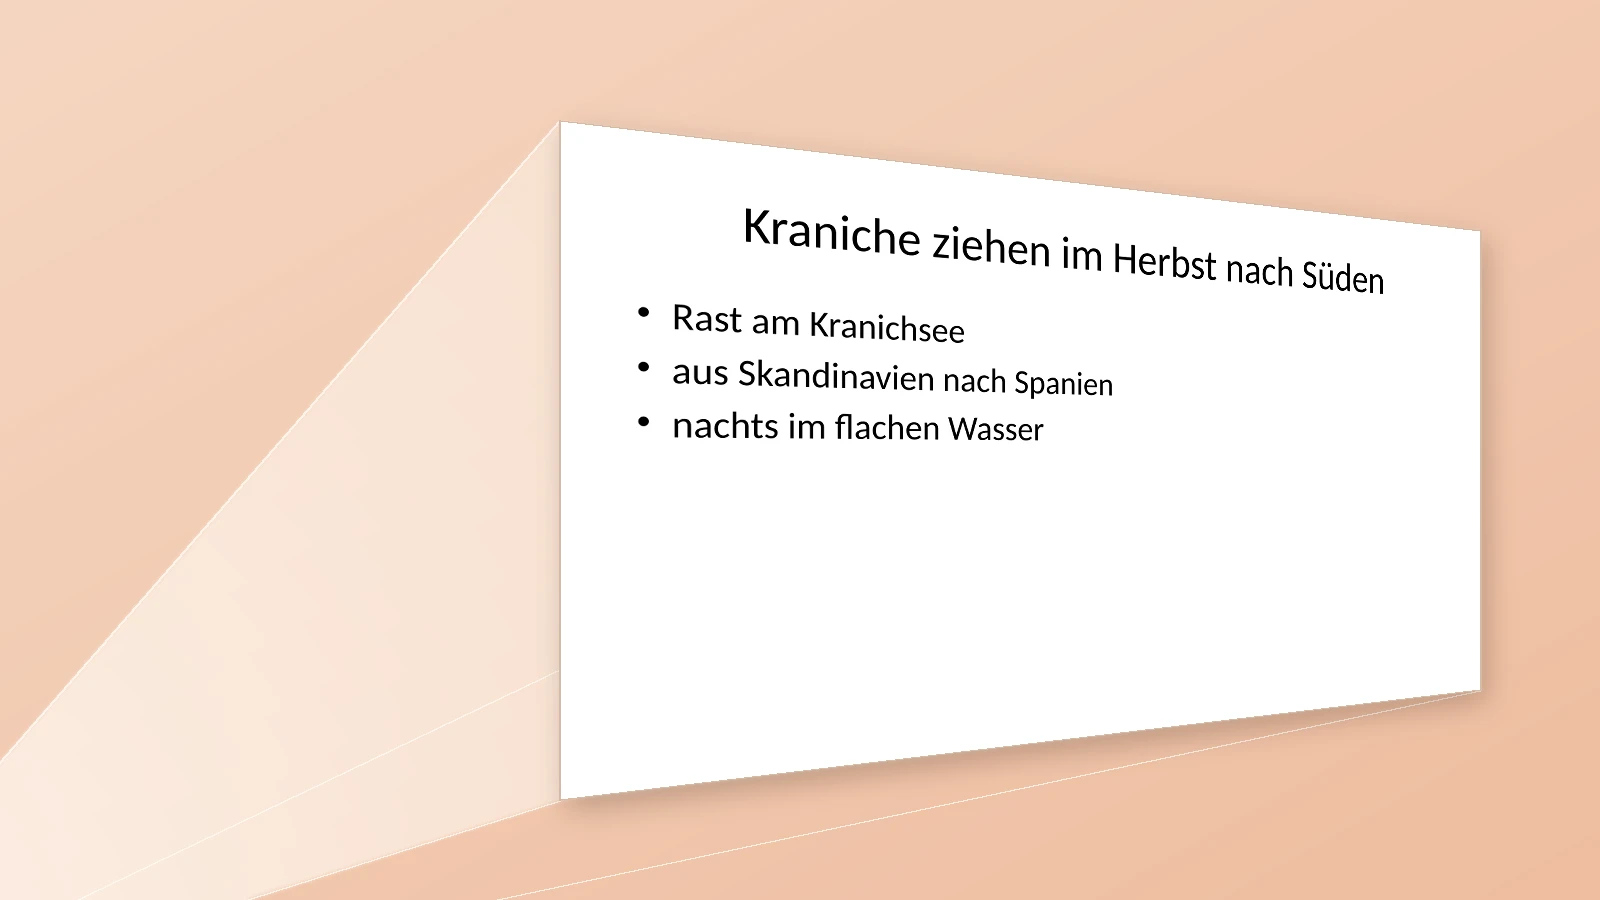
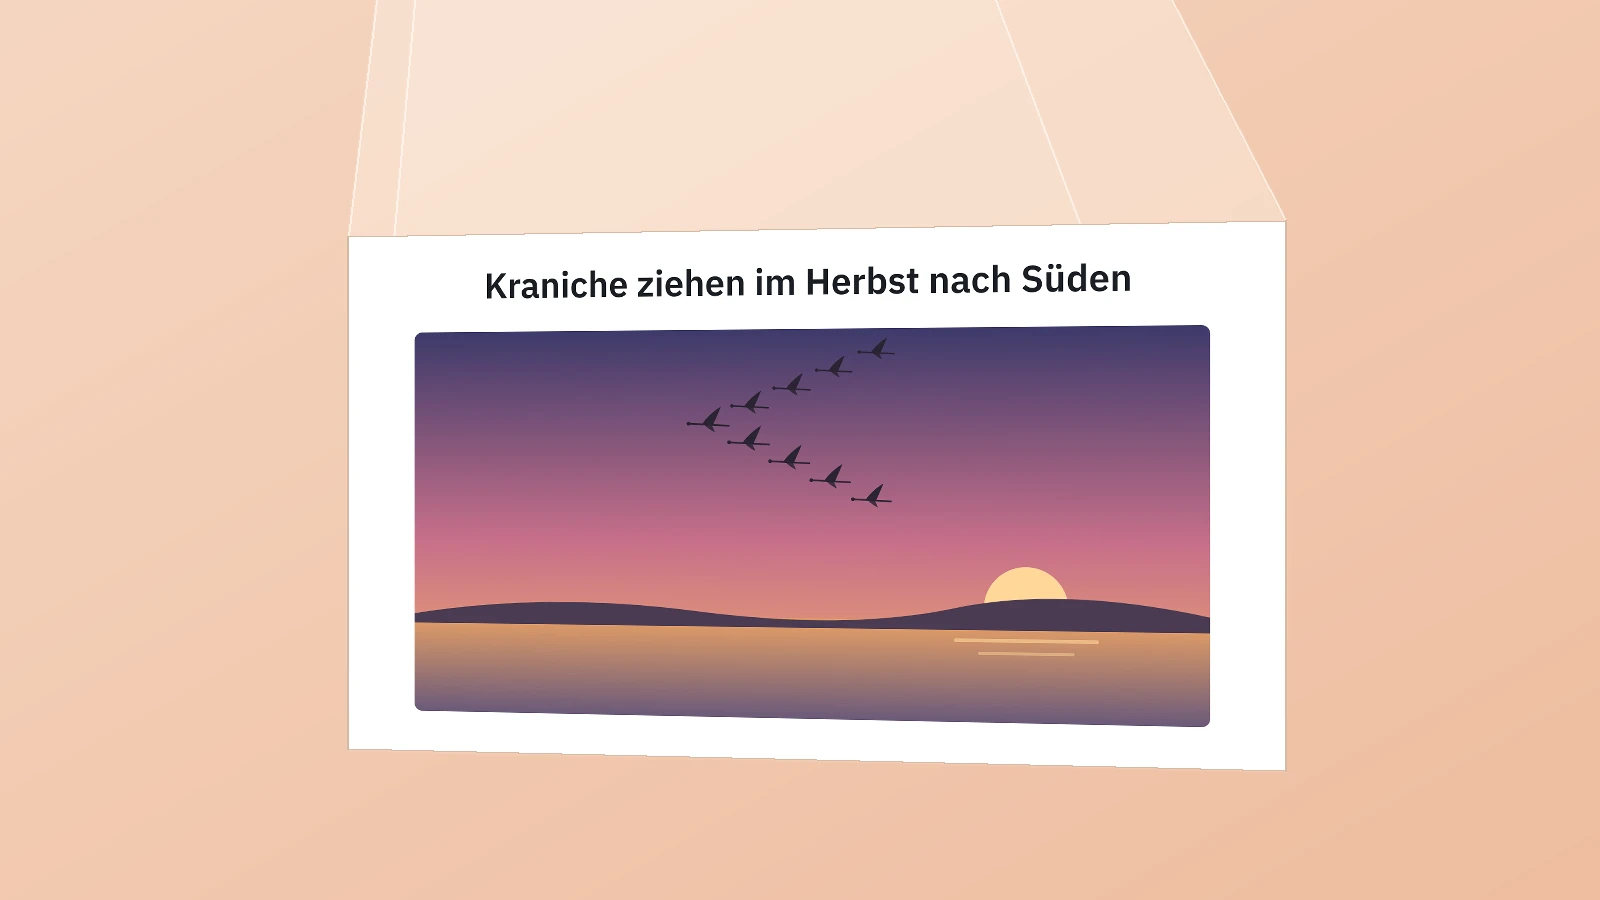
Presentations, sheet 1: the card's picture a good slide (a drawn picture of cranes in a wedge over the lake at dusk, a short title), front and centre on a wall with a slight perspective, lit by a beamer from the ceiling, its light a frustum of four faces; the Takahashi box with its year, 2001, and t

diff --git a/src/content/good-slides/bilder/teaser.py b/src/content/good-slides/bilder/teaser.py
@@ -1,14 +1,16 @@
-# The card's picture of »Eine Folie, ein Gedanke«: a small scene in space,
-# seen through a camera. The good slide is thrown onto a wall (a 16:9
-# rectangle on the plane z = 0) by a beamer in front of it, outside the
-# picture; its light is a pyramid with the lens as apex and four faces to
-# the slide's four edges (a frustum, as in a cinema), each face a little
-# brighter or darker, on the orange ground of the presentations
-# (office-drawings.py, card_ground). Run in the drawings image from the
-# activity's folder:
+# The card's picture of »Eine Folie, ein Gedanke«: a good slide, a picture
+# and a short title (cranes in a wedge over the lake at dusk, drawn here),
+# thrown onto a wall by a beamer hanging from the ceiling outside the
+# picture: a small scene in space seen through a camera almost straight in
+# front, so the slide stands front and centre with a slight perspective. The
+# light is a pyramid with the lens as apex and four faces to the slide's four
+# edges (a frustum, as in a cinema), each face a little brighter or darker,
+# on the orange ground of the presentations (office-drawings.py,
+# card_ground). Run in the drawings image from the activity's folder:
 #
 #     src/scripts/drawings sh -c 'cd src/content/good-slides && python3 bilder/teaser.py'
 import io
+import os
 import subprocess
 
 import numpy as np
@@ -17,13 +19,48 @@ from PIL import Image, ImageDraw, ImageFilter
 W, H = 1600, 900
 GROUND = ((246, 214, 193), (238, 189, 159))       # light to deep, top left to bottom right
 LIGHT = (255, 250, 243)
+env = lambda name, default: tuple(float(v) for v in os.environ.get(name, default).split(','))
 
 # the scene, in metres: x to the right along the wall, y up, z out of the wall
-SLIDE = [(-1.6, 2.4, 0), (1.6, 2.4, 0), (1.6, 0.6, 0), (-1.6, 0.6, 0)]   # top left, top right, bottom right, bottom left
-LENS = tuple(float(v) for v in __import__('os').environ.get('LENS', '0.4,1.1,4.2').split(','))   # the beamer, in front of the wall
-EYE = tuple(float(v) for v in __import__('os').environ.get('EYE', '-4.5,3.0,4.5').split(','))     # the camera, to the left and above
-TARGET = tuple(float(v) for v in __import__('os').environ.get('TARGET', '0.6,1.4,1.4').split(','))
-FOCAL = float(__import__('os').environ.get('FOCAL', '1500'))   # pixels
+SLIDE = [(-1.6, 2.5, 0), (1.6, 2.5, 0), (1.6, 0.7, 0), (-1.6, 0.7, 0)]   # top left, top right, bottom right, bottom left
+LENS = env('LENS', '0.0,4.6,3.2')                  # the beamer, hanging from the ceiling in front of the wall
+EYE = env('EYE', '0.9,1.75,6.2')                   # the camera, nearly straight in front
+TARGET = env('TARGET', '0.0,1.75,0')
+FOCAL = float(os.environ.get('FOCAL', '1850'))     # pixels
+
+
+def slide_svg():
+    """the good slide: a short title over a large picture, drawn"""
+    birds = []
+    # a wedge of cranes flying to the left, the leader in front: a long neck
+    # forward, long legs trailing behind, broad wings
+    crane = ("<path d='M -26 0 L 30 3' stroke-width='2.4' fill='none'/>"
+             "<circle cx='-26' cy='0' r='2.2'/>"
+             "<path d='M -6 0 C -2 -6 8 -16 18 -22 C 14 -12 10 -4 8 1 Z'/>"
+             "<path d='M -4 1 C 0 5 6 9 10 11 C 8 6 6 3 6 2 Z' opacity='0.85'/>")
+    for i, (bx, by) in enumerate([(640, 330), (710, 362), (780, 394), (850, 426), (920, 458),
+                                  (712, 300), (784, 270), (856, 240), (928, 210)]):
+        birds.append(f"<g transform='translate({bx} {by}) scale({1.25 - i * 0.025:.2f})' fill='#2b2433' stroke='#2b2433' "
+                     f"stroke-linecap='round'>{crane}</g>")
+    return f"""<svg xmlns='http://www.w3.org/2000/svg' viewBox='0 0 1600 900' width='1600' height='900'>
+<defs>
+  <linearGradient id='sky' x1='0' y1='0' x2='0' y2='1'>
+    <stop offset='0' stop-color='#3d3a6b'/><stop offset='0.55' stop-color='#c8708a'/><stop offset='1' stop-color='#f3b26b'/></linearGradient>
+  <linearGradient id='lake' x1='0' y1='0' x2='0' y2='1'><stop offset='0' stop-color='#e7a066'/><stop offset='1' stop-color='#6b5a7a'/></linearGradient>
+  <clipPath id='frame'><rect x='120' y='170' width='1360' height='660' rx='14'/></clipPath>
+</defs>
+<rect width='1600' height='900' fill='#ffffff'/>
+<text x='800' y='112' text-anchor='middle' font-family='IBM Plex Sans, sans-serif' font-size='62' font-weight='600' fill='#1b1f24'>Kraniche ziehen im Herbst nach Süden</text>
+<g clip-path='url(#frame)'>
+  <rect x='120' y='170' width='1360' height='660' fill='url(#sky)'/>
+  <circle cx='1180' cy='640' r='70' fill='#ffd79a'/>
+  <rect x='120' y='660' width='1360' height='170' fill='url(#lake)'/>
+  <path d='M 120 660 Q 360 620 620 650 T 1060 640 T 1480 650 L 1480 676 L 120 676 Z' fill='#4a3b52'/>
+  <rect x='1060' y='690' width='240' height='6' rx='3' fill='#ffd79a' opacity='0.6'/>
+  <rect x='1100' y='712' width='160' height='5' rx='2.5' fill='#ffd79a' opacity='0.45'/>
+  {''.join(birds)}
+</g>
+</svg>"""
 
 
 def camera(eye, target):
@@ -68,7 +105,7 @@ ground = (np.array(GROUND[0]) * (1 - t) + np.array(GROUND[1]) * t).astype(np.uin
 picture = Image.fromarray(ground, 'RGB').convert('RGBA')
 
 # the four faces of the light, each its own brightness (top, right, bottom, left)
-for (a, b), strength in zip([(0, 1), (1, 2), (2, 3), (3, 0)], [0.30, 0.22, 0.16, 0.38]):
+for (a, b), strength in zip([(0, 1), (1, 2), (2, 3), (3, 0)], [0.14, 0.26, 0.34, 0.22]):
     face = Image.new('L', (W, H), 0)
     ImageDraw.Draw(face).polygon([lens, quad[a], quad[b]], fill=int(255 * strength))
     light = Image.new('RGBA', (W, H), LIGHT + (0,))
@@ -77,11 +114,12 @@ for (a, b), strength in zip([(0, 1), (1, 2), (2, 3), (3, 0)], [0.30, 0.22, 0.16,
 edges = Image.new('RGBA', (W, H), (0, 0, 0, 0))
 draw = ImageDraw.Draw(edges)
 for corner in quad:
-    draw.line([lens, corner], fill=LIGHT + (190,), width=2)
+    draw.line([lens, corner], fill=LIGHT + (170,), width=2)
 picture = Image.alpha_composite(picture, edges)
 
 # the slide, the beamer's image on the wall
-png = subprocess.run(['rsvg-convert', '-b', 'white', '-w', '1600', 'bilder/zug.svg'], capture_output=True, check=True).stdout
+svg = slide_svg()
+png = subprocess.run(['rsvg-convert', '-w', '1600'], input=svg.encode(), capture_output=True, check=True).stdout
 slide = Image.open(io.BytesIO(png)).convert('RGBA')
 warped = slide.transform((W, H), Image.PERSPECTIVE, coefficients(quad, slide.size), Image.BICUBIC)
 mask = Image.new('L', (W, H), 0)
@@ -91,5 +129,5 @@ picture = Image.alpha_composite(picture, warped)
 ImageDraw.Draw(picture).line(quad + [quad[0]], fill=(214, 186, 164, 255), width=2)
 
 picture.convert('RGB').save('/tmp/teaser.png')
-subprocess.run(['cwebp', '-quiet', '-q', '90', '/tmp/teaser.png', '-o', __import__('os').environ.get('OUT', 'teaser.webp')], check=True)
+subprocess.run(['cwebp', '-quiet', '-q', '90', '/tmp/teaser.png', '-o', os.environ.get('OUT', 'teaser.webp')], check=True)
 print('slide', [tuple(round(v) for v in p) for p in quad], 'lens', tuple(round(v) for v in lens))

diff --git a/src/content/good-slides/good-slides.md b/src/content/good-slides/good-slides.md
@@ -110,7 +110,7 @@ Text von der Folie herunter.
 _task(titel)
 
 <div class='history' id='history-takahashi'>
-<p><strong>Ein Wort pro Folie.</strong> Der japanische Programmierer Masayoshi Takahashi bereitete einen kurzen Vortrag für die RubyConf vor, eine Konferenz über die Programmiersprache Ruby. Auf seine Folien schrieb er nur ein oder zwei kurze Wörter, in riesiger Schrift, ohne Bilder und ohne Diagramme. So eine Folie ist in einem Augenblick gelesen, und danach hört das Publikum wieder zu. Auf Konferenzen von Entwicklerinnen und Entwicklern halten seitdem viele ihre Vorträge so; man nennt es die Takahashi-Methode. Für dein Referat ist ein Wort pro Folie zu wenig, aber die Methode zeigt, wie wenig auf einer Folie stehen muss.</p>
+<p><strong>Ein Wort pro Folie</strong>, 2001. Der japanische Programmierer Masayoshi Takahashi bereitete einen kurzen Vortrag für die RubyConf vor, eine Konferenz über die Programmiersprache Ruby. Ein Präsentationsprogramm hatte er nicht zur Hand; er baute seine Folien als Webseite in HTML. Auf jede schrieb er nur ein oder zwei kurze Wörter, in riesiger Schrift, ohne Bilder und ohne Diagramme. So eine Folie ist in einem Augenblick gelesen, und danach hört das Publikum wieder zu. Auf Konferenzen von Entwicklerinnen und Entwicklern halten seitdem viele ihre Vorträge so; man nennt es die Takahashi-Methode. Für dein Referat ist ein Wort pro Folie zu wenig, aber die Methode zeigt, wie wenig auf einer Folie stehen muss.</p>
 </div>
 
 

diff --git a/docs/plan-praesentationen.md b/docs/plan-praesentationen.md
@@ -104,11 +104,12 @@ read out.
 
 The model of a good slide in this series is a picture with minimal text;
 keywords alone are a step on the way (sheet 1 takes the text off, sheet 4
-adds the pictures). The card pictures of the sheets show such a slide: the
-card of sheet 1 waits for a slide of sheet 4 with its picture, thrown onto a
-wall in perspective by a beamer outside the picture, its light a frustum
-with four faces (`good-slides/bilder/teaser.py` renders the scene through a
-camera; its camera and lens are set by EYE, TARGET, FOCAL and LENS).
+adds the pictures). The card pictures of the sheets show such a slide,
+front and centre with a slight perspective, thrown onto a wall by a beamer
+hanging from the ceiling outside the picture, its light a frustum with four
+faces (`good-slides/bilder/teaser.py` renders the scene through a camera;
+camera and lens set by EYE, TARGET, FOCAL and LENS). Sheet 1's slide is
+drawn there (cranes in a wedge over the lake at dusk), free of licences.
 
 ## Accessibility (the maintainer, 12 November 2026)
 
